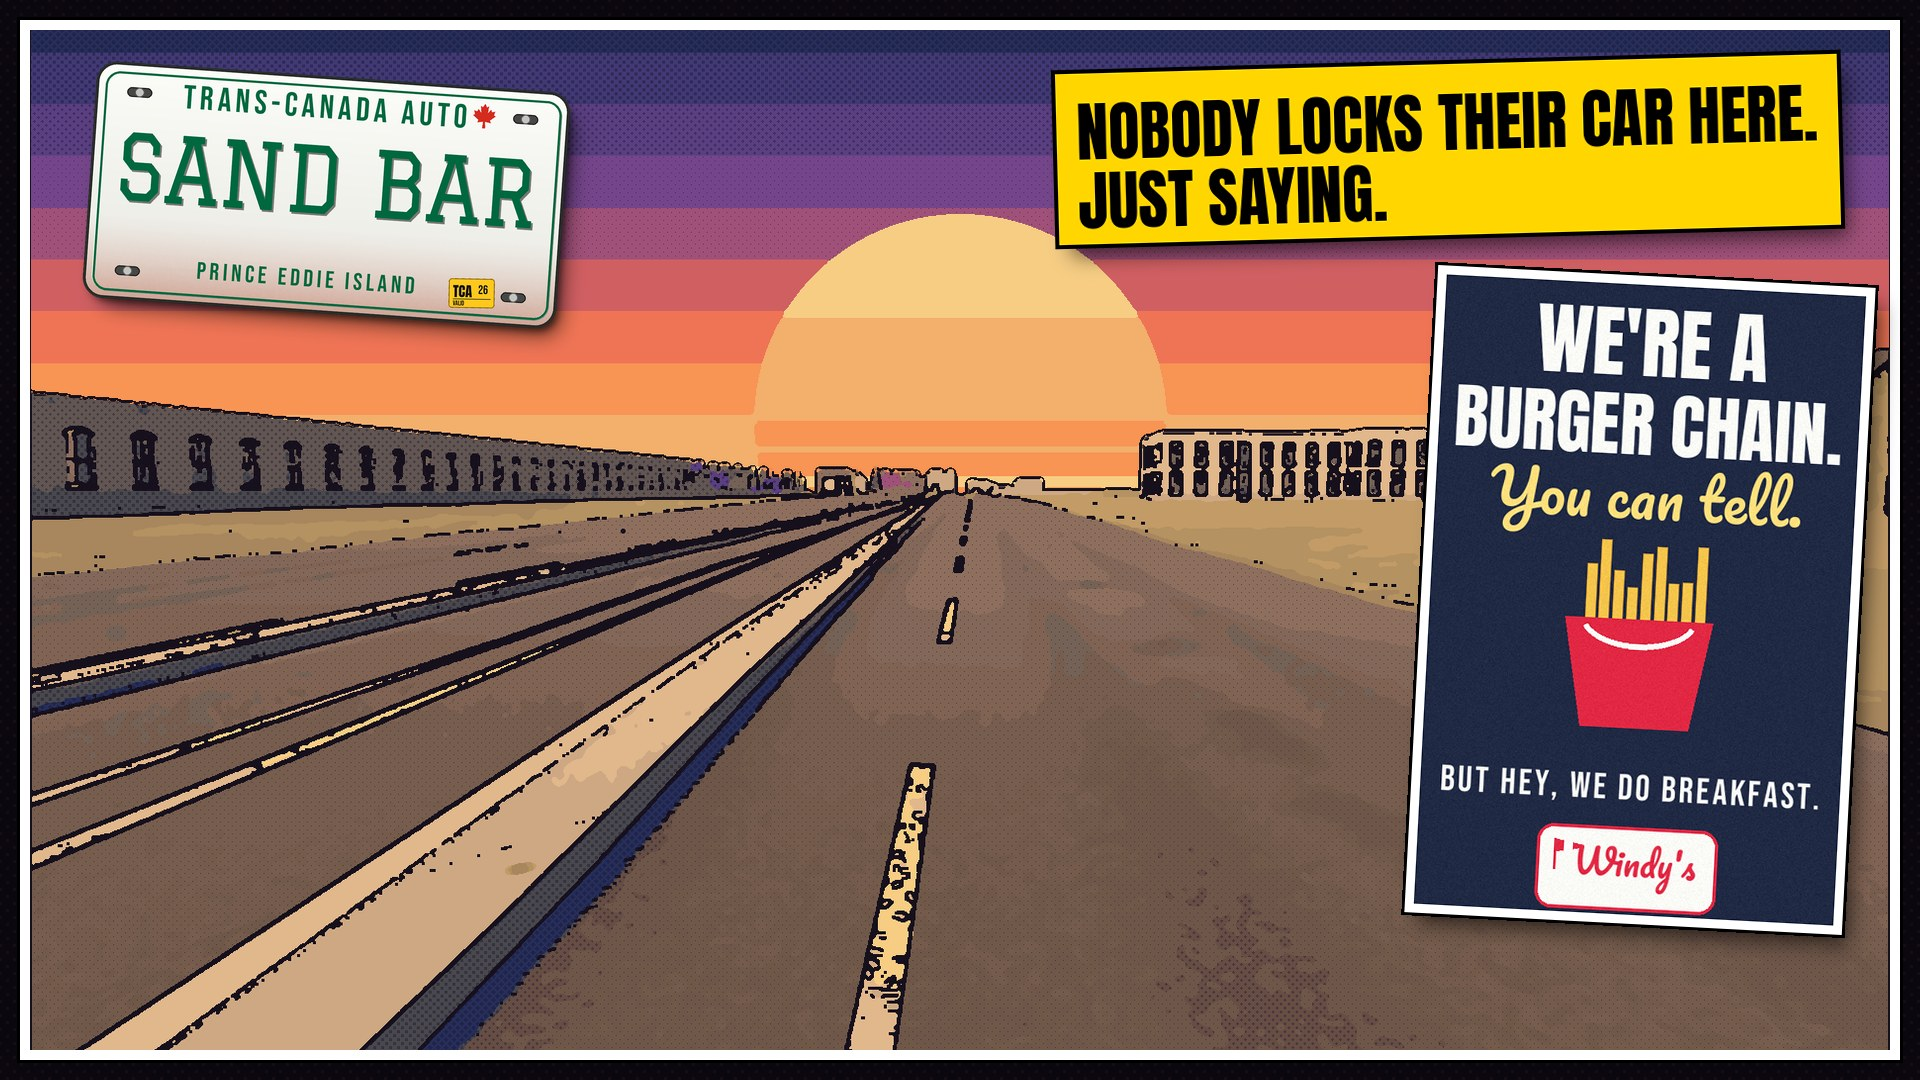
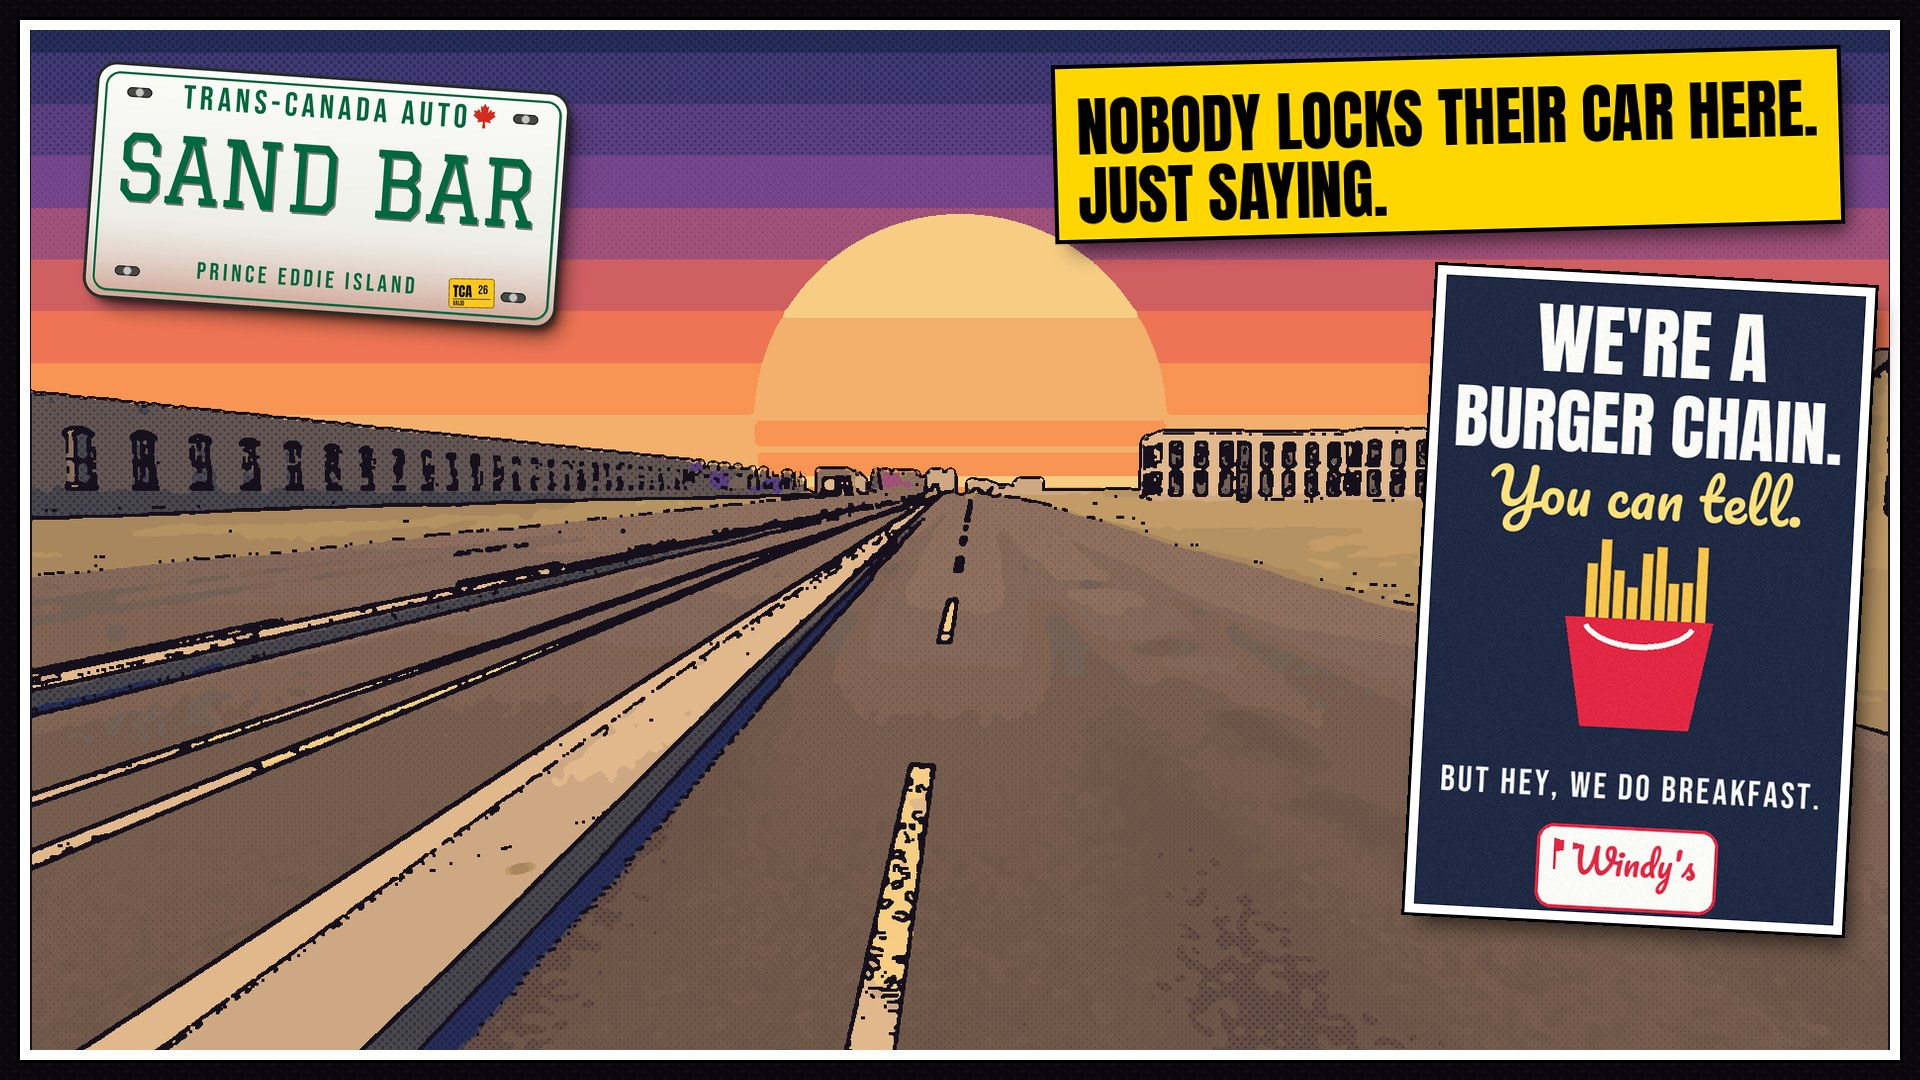
Loading screens: the roundabouts, and the pollution plant
The roundabout screen now says so four times, and a sixth screen
apologizes for the smell (blame your girlfriend). Long captions are set
smaller with the inset ad lower to make room. The 'Yield. Then yield
again.' joke stays on the cover collage.

Claude-Session: https://claude.ai/code/session_0115Cjrb6wYsxvNAt32qgVuD

Changed region(s): [[0.5312, 0.0306, 0.9688, 0.2444]]

diff --git a/tools/make_branding.py b/tools/make_branding.py
@@ -493,16 +493,20 @@ def cover_screen():
 
 def hero_screen(shot, stops, sun, caption, inset, inset_pos, focus=(0.5, 0.5)):
     """One big panel filling the screen, a smaller tilted panel tucked in,
-    the wordmark in the corner and a caption across it."""
+    the wordmark in the corner and a caption across it. A long caption
+    (more than two lines) is set smaller, and the inset sits lower to
+    make room for it."""
     W, H = 1920, 1080
     img = _backdrop(W, H)
     art = comic(_fill(_screen(shot), 1880, 1040, focus), stops, sun=sun)
     _place(img, _panel(art, 1860, 1020, 0.0, border=10), W / 2, H / 2, shadow=False)
-    p = _panel(inset, 420, int(420 * inset.height / inset.width), inset_pos[2])
-    _place(img, p, inset_pos[0], inset_pos[1])
+    long = caption.count("\n") >= 2
+    iw = 360 if long else 420
+    p = _panel(inset, iw, int(iw * inset.height / inset.width), inset_pos[2])
+    _place(img, p, inset_pos[0], inset_pos[1] + (80 if long else 0))
     _place(img, wordmark(500), 330, 200)
-    c = _caption(caption.upper(), 64, angle=1.5)
-    _place(img, c, W - c.width / 2 - 70, 150, shadow=True)
+    c = _caption(caption.upper(), 54 if long else 64, angle=1.5)
+    _place(img, c, W - c.width / 2 - 70, 40 + c.height / 2, shadow=True)
     return img.convert("RGB")
 
 
@@ -515,8 +519,13 @@ def loading_screens():
                     _ad("macdougalls_flurry"), (1650, 620, 2.5)),
         hero_screen("university", MORNING, None, "Speed limit 50.\nOr thereabouts.",
                     _ad("tim_hardlys_iced_capp"), (1640, 610, -2.0)),
-        hero_screen("roundabout", SUNSET, (0.7, 0.15), "Yield. Then yield again.\nThen apologize.",
-                    _ad("tim_hardlys_bagel"), (1640, 620, 3.0)),
+        hero_screen("roundabout", SUNSET, (0.7, 0.15),
+                    "We have roundabouts.\nAnd roundabouts.\nAnd roundabouts.\nAnd roundabouts.",
+                    _ad("tim_hardlys_bagel"), (1660, 620, 3.0)),
+        hero_screen("gas-station", DUSK, (0.3, 0.2),
+                    "Sorry about the pollution plant.\nSmells like shit all the time.\n"
+                    "But you can blame\nyour girlfriend if you want.",
+                    _ad("tim_hardlys_hiring"), (1680, 620, -2.5)),
     ]
 
 
